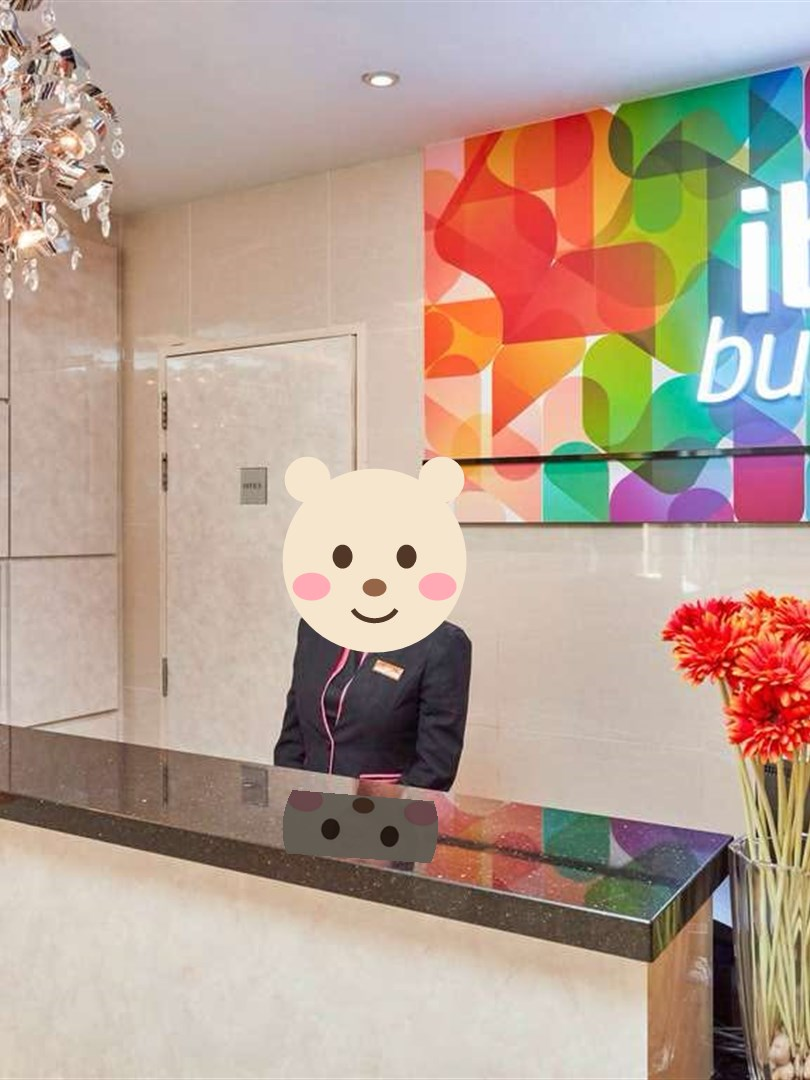
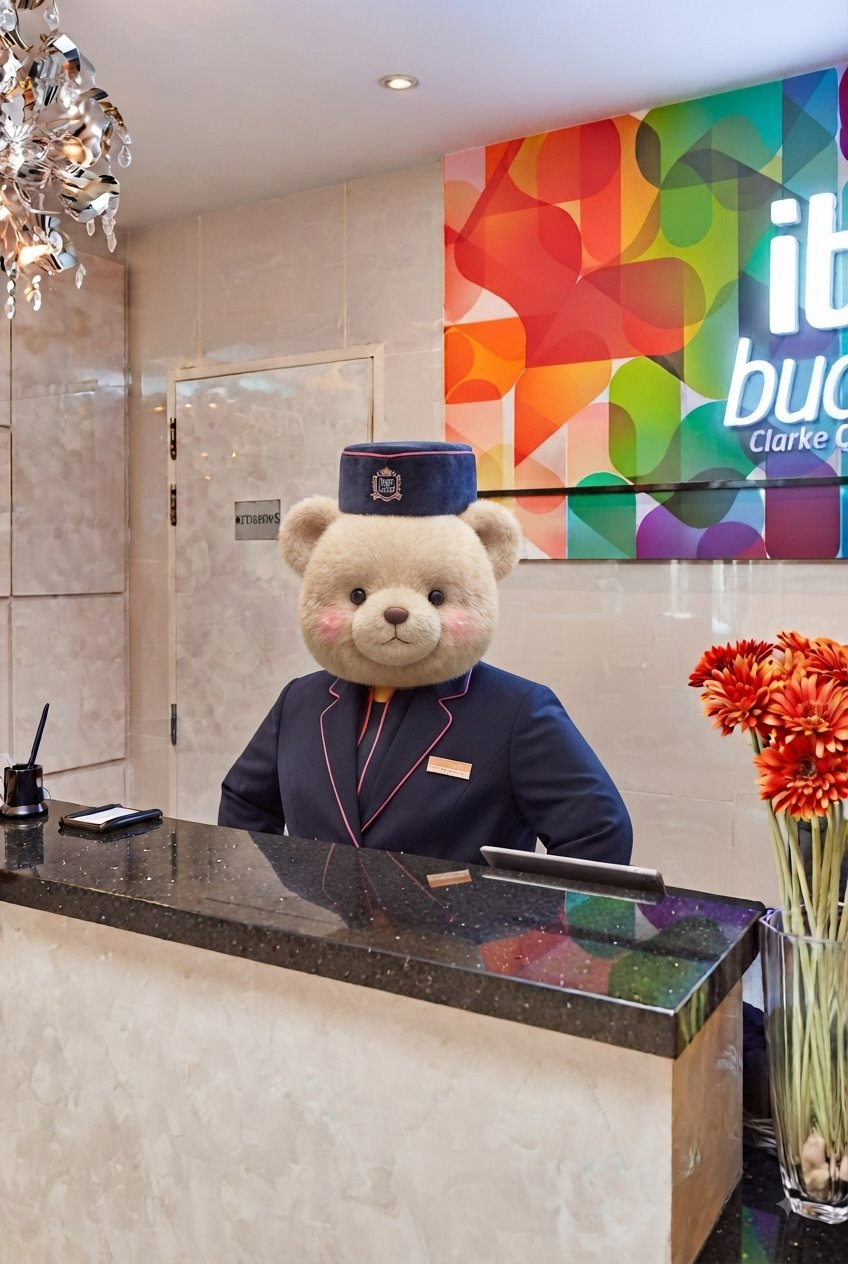
방탈출: 이비스 리셉션 곰돌이 컨시어지로 교체

diff --git a/index.html b/index.html
@@ -854,11 +854,13 @@ const MAPS = {
   },
 
   ibis:{
+    // 배경 = 곰돌이 컨시어지 리셉션(북쑥 AI생성, 2026-08-14 교체. 구사진=ibis_old_backup.jpg).
     name:"이비스 버짓 클락키", sub:"체크인하러 리셉션으로", photo:"img/ibis.jpg",
     hotspots:[
-      { x:62,y:52, w:46,h:34, label:"리셉션", closeup:{
-        img:"TODO", badge:"🛎",
-        caption:"🛎 리셉션 직원에게 체크인!\n\"호텔 체크인을 하시려면 두 분의 여권이 모두 필요합니다.\"",
+      // 곰돌이 클릭 → 귀엽게 웃으며 응대하지만 멘트는 단호(여권 2개). ★확대 이미지(ibis_bear.jpg) 오면 img 교체 예정 — 지금은 전체 사진.
+      { x:47,y:50, w:44,h:40, label:"곰돌이 컨시어지", closeup:{
+        img:"img/ibis.jpg", badge:"🧸",
+        caption:"🧸 곰돌이 컨시어지가 귀엽게 웃으며 맞아준다.\n\"어서 오세요! …호텔 체크인을 하시려면\n두 분의 여권이 모두 필요합니다.\"",
         action:{type:"checkin",
           no:"\"호텔 체크인을 하시려면 두 분의 여권이 모두 필요합니다.\"",
           success:"체크인 완료! 방 열쇠를 받았다. 🔑\n이제 우리 방으로 올라가자.",
